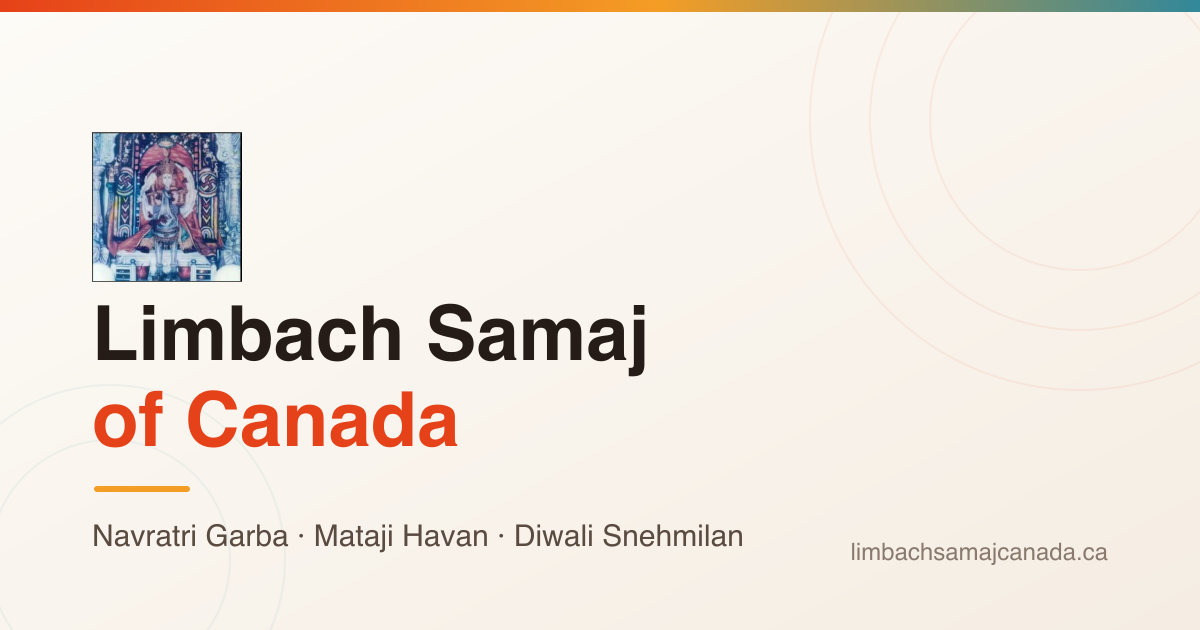
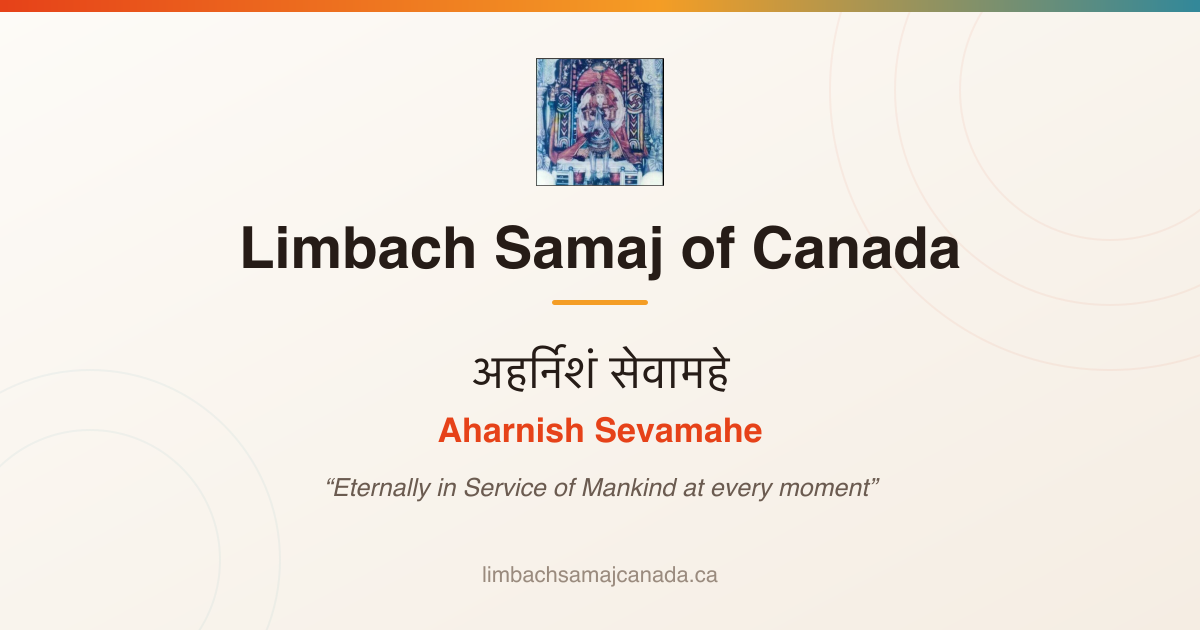
feat(seo): restructure og:image around the Samaj motto
Reorder the social card to logo, then organisation name, then the motto —
Devanagari, transliteration, and English translation — and add the motto
to the Organization schema as `slogan`.

Rendered with Kohinoor Devanagari (Devanagari MT as fallback), both of
which ship with macOS; verify output if regenerating on another platform.

diff --git a/index.html b/index.html
@@ -36,6 +36,7 @@
         "url": "https://www.limbachsamajcanada.ca/",
         "logo": "https://www.limbachsamajcanada.ca/logo.png",
         "email": "jaylimbach@gmail.com",
+        "slogan": "Aharnish Sevamahe — Eternally in Service of Mankind at every moment",
         "contactPoint": {
           "@type": "ContactPoint",
           "contactType": "Customer Service",
